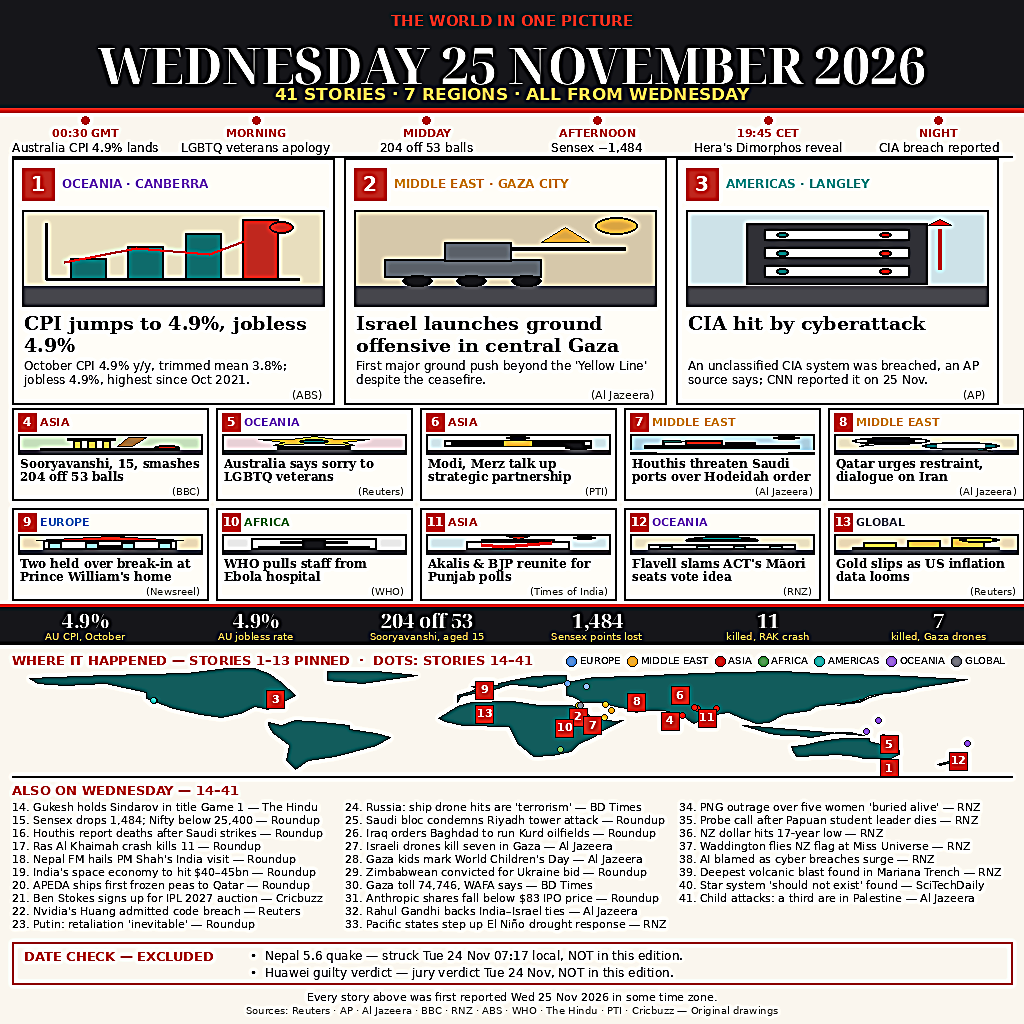
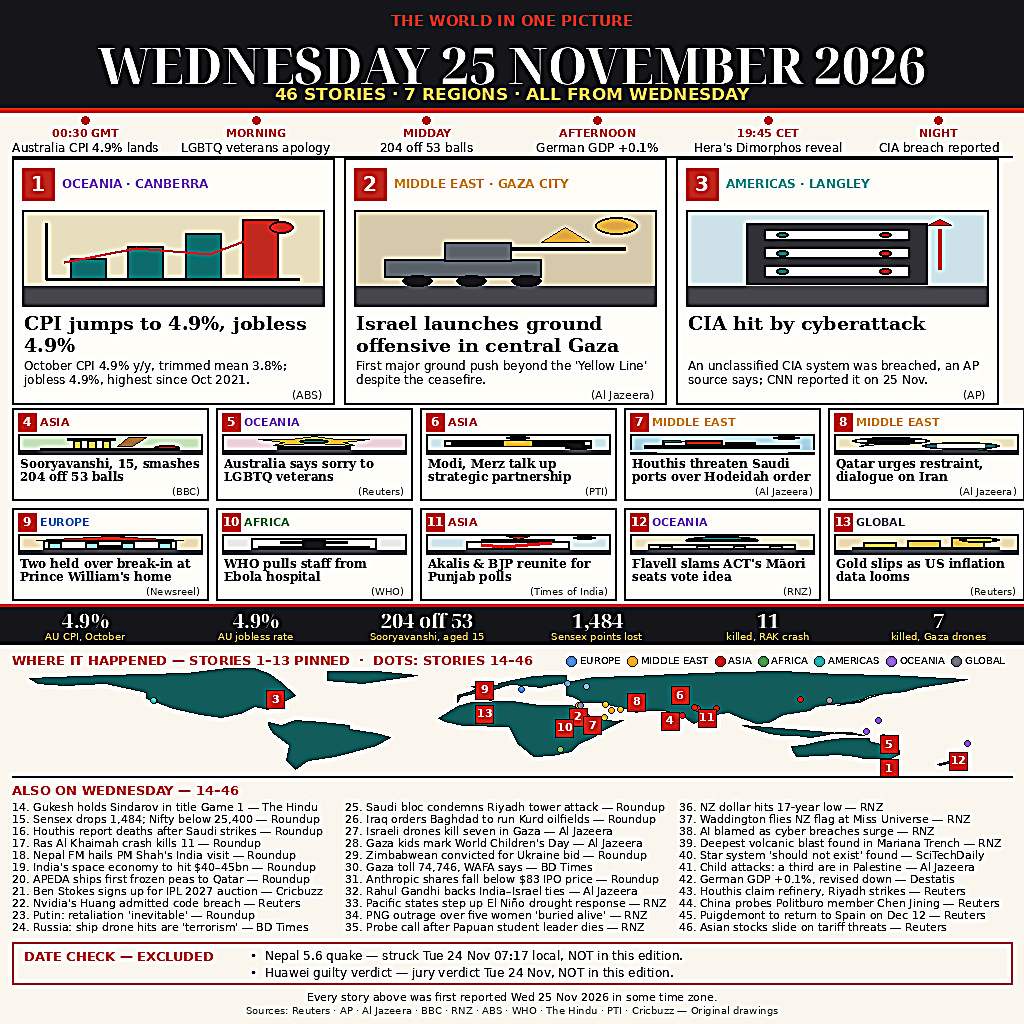
news-image-20261125 v2: 46 sourced stories, daytime edition

Changed region(s): [[0.0, 0.7812, 0.9688, 0.9062], [0.5312, 0.125, 0.625, 0.1562]]

diff --git a/render_poster.py b/render_poster.py
@@ -5,7 +5,7 @@ Visual language: a daylight wire desk - warm paper ground, an ink-black
 masthead band, signal-red rules and number chips, teal accents, linocut
 scenes drawn with heavy black outlines. Deliberately NOT the cream
 newspaper front page the field copies, and NOT the navy night-desk of
-the previous day. All 41 stories were first reported Wed 25 Nov 2026
+the previous day. All 46 stories were first reported Wed 25 Nov 2026
 in some time zone (see BRIEF.md for the verification basis of each
 one). Two 24-Nov stories are named only in the small DATE CHECK box
 as excluded.
@@ -145,18 +145,23 @@ ALSO_ON = [
     (39, "OCEANIA", "Deepest volcanic blast found in Mariana Trench", "RNZ", 145.0, 11.4),
     (40, "GLOBAL", "Star system 'should not exist' found", "SciTechDaily", 0.0, 45.0),
     (41, "GLOBAL", "Child attacks: a third are in Palestine", "Al Jazeera", 35.2, 31.8),
+    (42, "EUROPE", "German GDP +0.1%, revised down", "Destatis", 13.4, 52.5),
+    (43, "MIDDLE EAST", "Houthis claim refinery, Riyadh strikes", "Reuters", 50.2, 26.6),
+    (44, "ASIA", "China probes Politburo member Chen Jining", "Reuters", 116.4, 39.9),
+    (45, "EUROPE", "Puigdemont to return to Spain on Dec 12", "Reuters", 2.17, 41.4),
+    (46, "GLOBAL", "Asian stocks slide on tariff threats", "Reuters", 127.0, 37.5),
 ]
 
-REGION_COUNTS = {"EUROPE": 3, "MIDDLE EAST": 10, "ASIA": 10,
-                 "AFRICA": 2, "AMERICAS": 3, "OCEANIA": 10, "GLOBAL": 3}
-TOTAL_STORIES = 41
+REGION_COUNTS = {"EUROPE": 5, "MIDDLE EAST": 11, "ASIA": 11,
+                 "AFRICA": 2, "AMERICAS": 3, "OCEANIA": 10, "GLOBAL": 4}
+TOTAL_STORIES = 46
 N_REGIONS = 7
 
 TIMELINE = [
     ("00:30 GMT", "Australia CPI 4.9% lands"),
     ("MORNING", "LGBTQ veterans apology"),
     ("MIDDAY", "204 off 53 balls"),
-    ("AFTERNOON", "Sensex \u22121,484"),
+    ("AFTERNOON", "German GDP +0.1%"),
     ("19:45 CET", "Hera's Dimorphos reveal"),
     ("NIGHT", "CIA breach reported"),
 ]
@@ -443,7 +448,7 @@ def render():
     mf = f_display(50)
     mx = (W - mf.getlength(mast)) / 2
     text(d, (mx, 30), mast, mf, CARD)
-    count = "41 STORIES \u00b7 7 REGIONS \u00b7 ALL FROM WEDNESDAY"
+    count = "46 STORIES \u00b7 7 REGIONS \u00b7 ALL FROM WEDNESDAY"
     cf = f_sans_b(17)
     cx = (W - cf.getlength(count)) / 2
     text(d, (cx, 84), count, cf, OCHRE)
@@ -531,7 +536,7 @@ def render():
     # ---- map (648-776)
     d.rectangle([0, 648, W, 776], fill=PAPER)
     mt = "WHERE IT HAPPENED \u2014 STORIES 1\u201313 PINNED  \u00b7  "
-    mt += "DOTS: STORIES 14\u201341"
+    mt += "DOTS: STORIES 14\u201346"
     text(d, (12, 652), mt, f_sans_b(13), RED)
     lx = W - 12
     leg = f_sans(10)
@@ -565,14 +570,14 @@ def render():
     d.line([12, 776, W - 12, 776], fill=INK, width=2)
 
     # ---- ALSO ON list (780-938), 3 columns
-    text(d, (12, 782), "ALSO ON WEDNESDAY \u2014 14\u201341",
+    text(d, (12, 782), "ALSO ON WEDNESDAY \u2014 14\u201346",
          f_sans_b(13), RED)
     af = f_sans(11)
     col_w = (W - 24) / 3
     for i, (n, region, title, src, _lon, _lat) in enumerate(ALSO_ON):
-        col, row = divmod(i, 10)
+        col, row = divmod(i, 11)
         x0 = 12 + col * col_w
-        y = 800 + row * 13
+        y = 800 + row * 12
         line = "%d. %s \u2014 %s" % (n, title, src)
         while af.getlength(line) > col_w - 8 and " " in line:
             line = line.rsplit(" ", 1)[0]

diff --git a/BRIEF.md b/BRIEF.md
@@ -176,3 +176,53 @@ CHECK); US Army lead-azide detonation (planned Wed morning, not yet
 happened at build time); Hera eclipse image itself (published 23 Nov —
 only the 25 Nov evening reveal is in the timeline); Germany GDP / US
 PCE-GDP (due later on 25 Nov, not yet released at build time).
+
+## v2 — daytime edition (built Wed 25 Nov ~18:15–18:45 WIB)
+
+41 → 46 stories. All 41 v1 stories kept unchanged. Five daytime stories
+added, each first reported Wed 25 Nov 2026, verified from a primary
+source (read on the outlet's own page, not from a search snippet):
+
+42. EUROPE/Berlin — "German GDP +0.1%, revised down" — Destatis press
+    release No. 409 of 25 Nov 2026: Q3 GDP +0.1% q/q (price, seasonally
+    and calendar adjusted), +1.2% y/y; 0.1pp lower than the 30 Oct first
+    release (+0.2%). [URL-25: destatis.de]
+43. MIDDLE EAST/Ras Tanura — "Houthis claim refinery, Riyadh strikes" —
+    Houthi spokesman Yahya Saree said on Wednesday the group attacked
+    Ras Tanura refinery (fires) and Riyadh's financial district in three
+    phases; the coalition said air defences intercepted 4 drones in Ras
+    Tanura earlier Wednesday. [URL-25: reuters.com, 25 Nov]
+44. ASIA/Beijing — "China probes Politburo member Chen Jining" —
+    anti-graft watchdog launched an investigation of Shanghai party chief
+    Chen Jining, the fourth such inquiry into the Politburo since 2025.
+    [URL-25: reuters.com, 25 Nov]
+45. EUROPE/Barcelona — "Puigdemont to return to Spain on Dec 12" —
+    Carles Puigdemont said on Wednesday he would return 12 Dec, ending
+    nearly a decade of self-imposed exile after the Supreme Court applied
+    the amnesty law. [URL-25: reuters.com, 25 Nov]
+46. GLOBAL/Seoul — "Asian stocks slide on tariff threats" — Asian stocks
+    tumbled early Wednesday on fresh US tariff threats; MSCI Asia-Pacific
+    ex-Japan -2.3%, South Korea -5.3%, Taiwan -5.1%, Nikkei -2.9%; S&P
+    futures -0.3%. [URL-25: reuters.com, 25 Nov]
+
+Region counts v2: EUROPE 5 · MIDDLE EAST 11 · ASIA 11 · AFRICA 2 ·
+AMERICAS 3 · OCEANIA 10 · GLOBAL 4 = 46 stories, 7 regions.
+
+Layout change: ALSO ON list 3 columns x 11 rows (was 10), row pitch
+13 → 12px; masthead count 41 → 46; map dots 14–46; timeline AFTERNOON
+slot now "German GDP +0.1%" (was Sensex, still story 15). KPIs, DATE
+CHECK, heroes and featured unchanged. Sooryavanshi detail kept
+everywhere. Render: 325,805 bytes, sha256
[1 lines of base64/hex data omitted]
+byte-deterministic across renders, clearance 0, tests 6/6 pass,
+masthead + 3 leads + KPIs read at 300px.
+
+Deliberately left out (for v3): US PCE + Q3 GDP second estimate (BEA
+releases 8:30 AM ET = 20:30 WIB, not yet out at build time); ESA Hera
+Dimorphos reveal (19:45 CET, not yet happened); Ramaphosa wins Farmgate
+case (Reuters, 25 Nov); Wipro–BP deal (Reuters, 25 Nov); Spain election
+housing debate (Reuters, 25 Nov); Jordan death sentence (Reuters,
+25 Nov); Thanksgiving travel delays (Reuters, 25 Nov); Sahel
+drone-insurgency feature (Reuters, 25 Nov). All verified 25-Nov but
+held for v3 — the ALSO ON list fits 33 items at 11 rows; v3 will need
+a 4-column restructure or swaps to go past 46.

diff --git a/STRATEGY.md b/STRATEGY.md
@@ -70,3 +70,19 @@ A solid v1 that should clear the gate and score in the dev heat on
 breadth + date honesty + legibility. Iterate on the live score and
 the judge's hidden reasons: add daytime stories in v2, fix whatever
 the judge penalises, keep whatever it praises.
+
+## v2 — daytime edition (25 Nov ~18:15 WIB)
+
+- 41 → 46 stories: German GDP, Houthis refinery claim, China Politburo
+  probe, Puigdemont return, Asian stocks slide. All verified from
+  primary sources (Destatis / Reuters) as first reported Wed 25 Nov.
+- US PCE/GDP actuals NOT in v2: BEA releases 20:30 WIB, after this
+  build — v3 material, with the Hera reveal (19:45 CET) and evening
+  wires.
+- Layout: ALSO ON 3 cols x 11 rows (pitch 12px) — the most the list
+  holds without a 4-column restructure; 46 is the floor of the 46–52
+  icantcodefyi recipe and above the 43-story top-10 floor. Legibility
+  kept: clearance 0, masthead + 3 leads + KPIs read at 300px.
+- Kept from v1: DATE CHECK (2 items, neutral), 7 regions, UTC timeline
+  (AFTERNOON slot now German GDP), Sooryavanshi detail, KPIs, daylight
+  wire-desk art.
